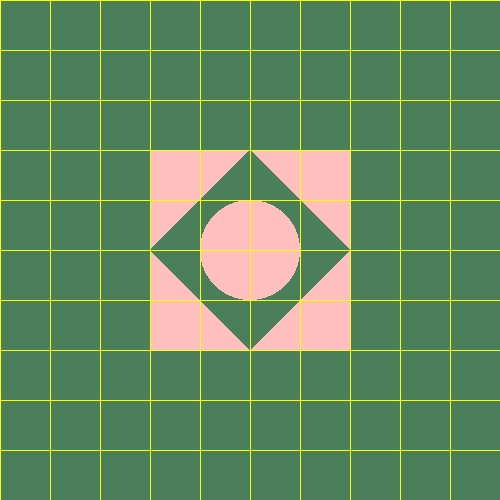
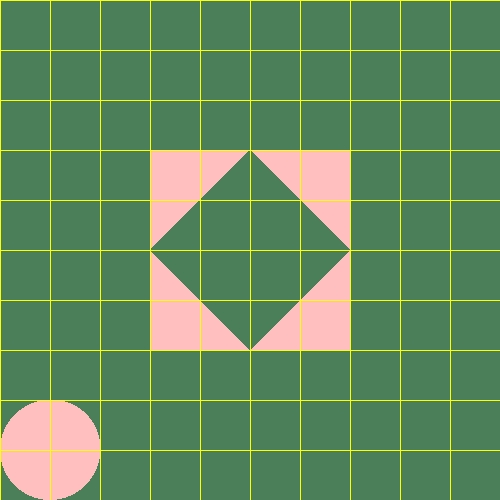
insignificant

Changed region(s): [[0.0, 0.78, 0.21, 1.0], [0.39, 0.39, 0.6, 0.6]]

diff --git a/unittests/renderer/RenderTest.java b/unittests/renderer/RenderTest.java
@@ -21,12 +21,12 @@ public class RenderTest {
     @Test
     public void testRenderImage() {
         Scene scene = new Scene("Test scene");
-        scene.setCamera(new Camera(Point3D.ZERO, new Vector(0, 0, 1), new Vector(0, -1, 0)));
-        scene.setDistance(100);
+        scene.setCamera(new Camera(new Point3D(0,0,-1000), new Vector(0, 0, 1), new Vector(0, -1, 0)));
+        scene.setDistance(1100);
         scene.setBackground(new Color(75, 127, 90));
         scene.setAmbientLight(new AmbientLight(new Color(255, 191, 191), 1));
 
-        scene.addGeometries(new Sphere(50, new Point3D(0, 0, 100)));
+        scene.addGeometries(new Sphere(50, new Point3D(-200, 200, 100)));
 
         scene.addGeometries(
                 new Triangle(new Point3D(100, 0, 100), new Point3D(0, 100, 100), new Point3D(100, 100, 100)),
